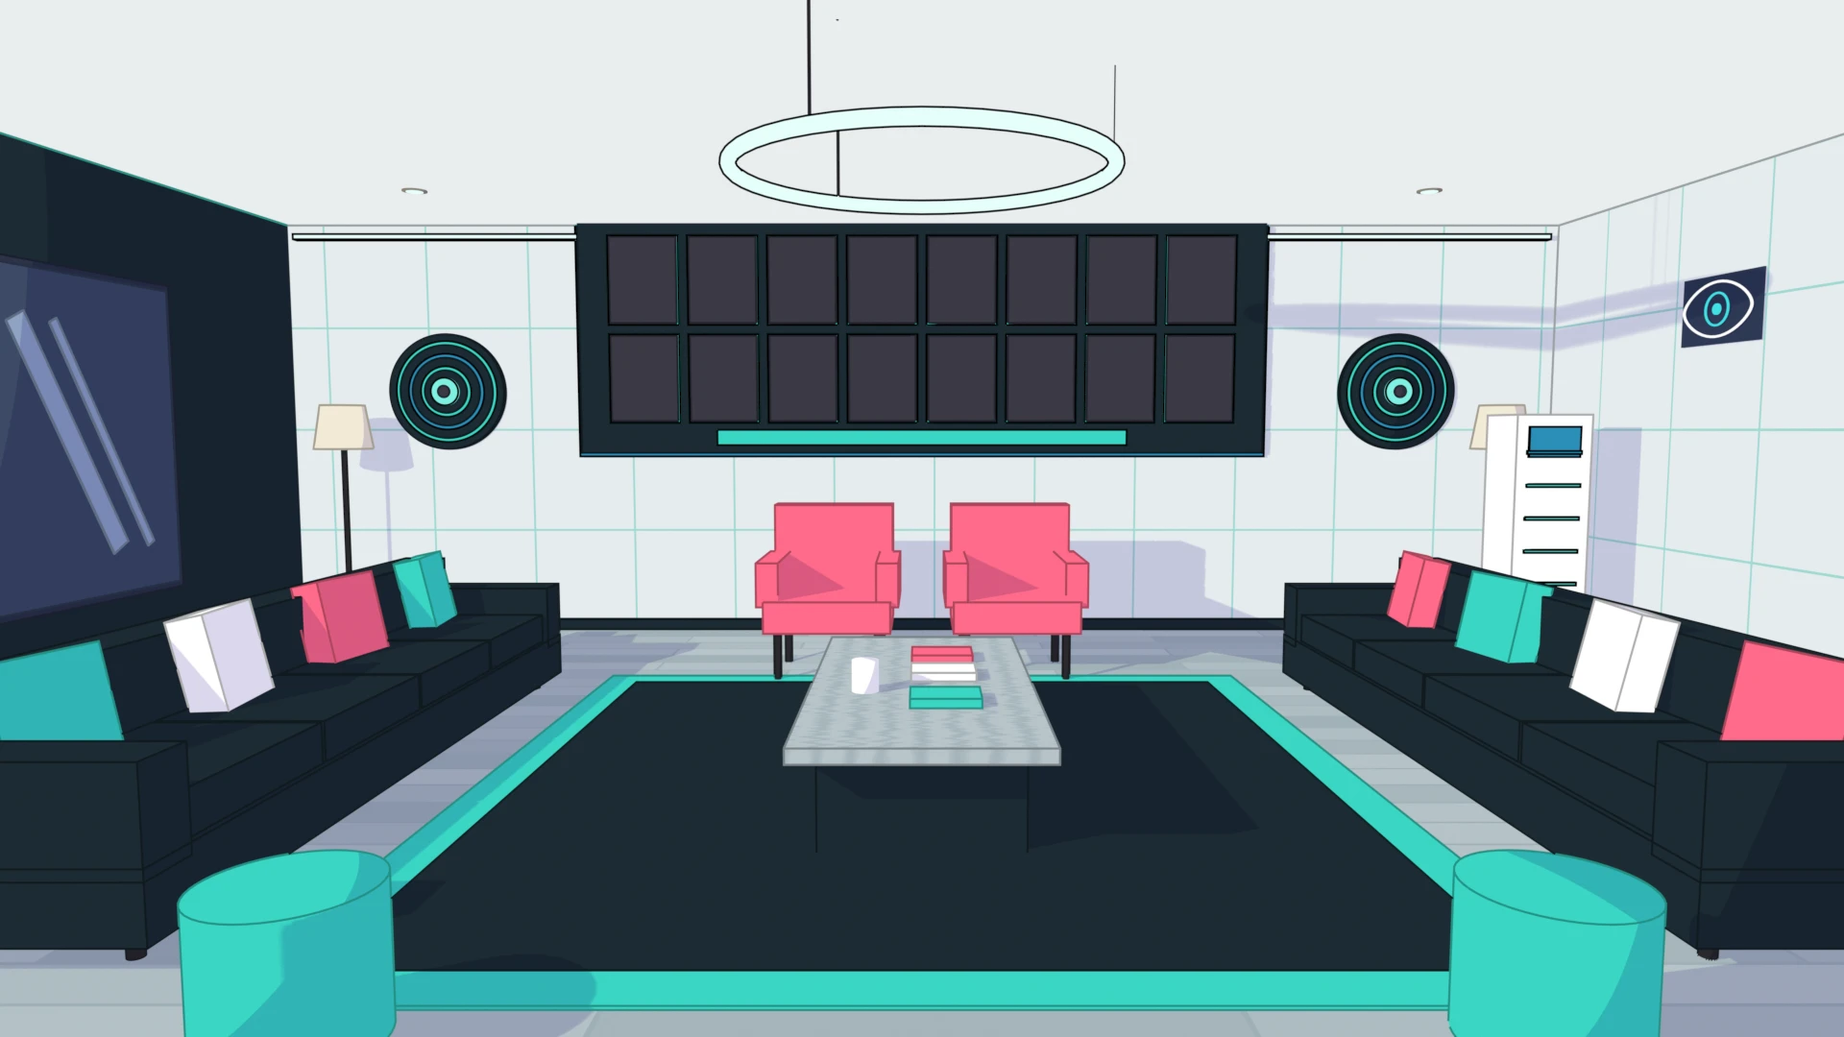
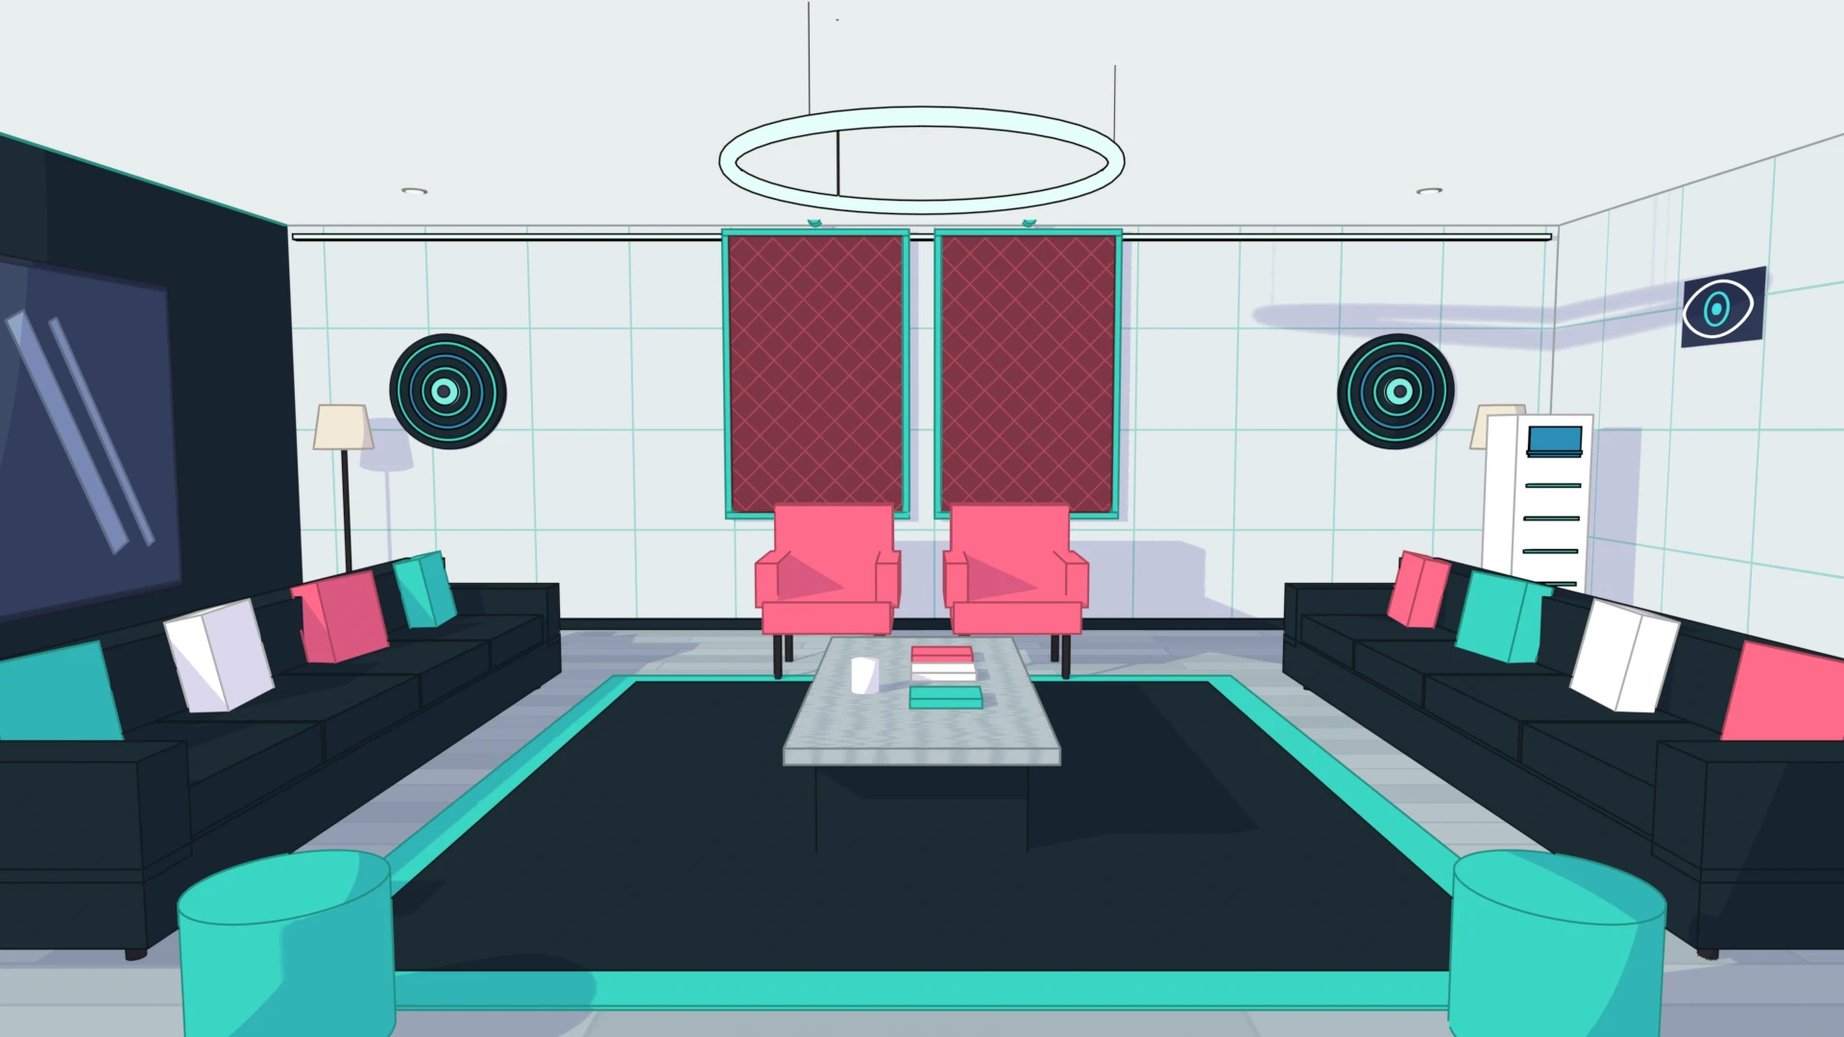
fix(bb-house): the memory wall as BB US hangs it; nomination slot keeps its frame
The memory wall is two gold-trimmed damask panels (rendered); the viewer
hangs a gold or black frame per houseguest, staggered in two columns per
panel, so the wall always holds the season's own cast (evicted go black and
white, nominees glow red). A face landing in a nomination slot keeps the
slot's frame, with the name plate under the photo.

Also restores bed/_darker/nightstand/fairy_wall, cut out of house.py by
the previous rebuild (all nine rooms build again).

Changed region(s): [[0.3125, 0.2139, 0.6875, 0.5194]]

diff --git a/mockup/mockup-bb-house-v2.html b/mockup/mockup-bb-house-v2.html
@@ -344,13 +344,13 @@ button{font:inherit;color:inherit}
 .set.photo{background-size:cover!important;background-position:center!important}
 .set.photo::before,.set.photo::after,.set.photo .floor{display:none}
 /* the house in the chosen look (TD B · Flat); every room of the default season */
-.set-kitchen.photo{background:url('../assets/bb/house/default/kitchen-td-b.webp?v=5')}
-.set-ceremony.photo{background:url('../assets/bb/house/default/living-td-b.webp?v=5')}
-.set-bedroom.photo{background:url('../assets/bb/house/default/bedroom-td-b.webp?v=5')}
-.set-hoh.photo{background:url('../assets/bb/house/default/hoh-td-b.webp?v=5')}
-.set-dr.photo{background:url('../assets/bb/house/default/dr-td-b.webp?v=5')}
-.set-yard.photo{background:url('../assets/bb/house/default/yard-td-b.webp?v=5')}
-.set-dining.photo{background:url('../assets/bb/house/default/dining-td-b.webp?v=5')}
+.set-kitchen.photo{background:url('../assets/bb/house/default/kitchen-td-b.webp?v=6')}
+.set-ceremony.photo{background:url('../assets/bb/house/default/living-td-b.webp?v=6')}
+.set-bedroom.photo{background:url('../assets/bb/house/default/bedroom-td-b.webp?v=6')}
+.set-hoh.photo{background:url('../assets/bb/house/default/hoh-td-b.webp?v=6')}
+.set-dr.photo{background:url('../assets/bb/house/default/dr-td-b.webp?v=6')}
+.set-yard.photo{background:url('../assets/bb/house/default/yard-td-b.webp?v=6')}
+.set-dining.photo{background:url('../assets/bb/house/default/dining-td-b.webp?v=6')}
 .front{position:absolute;inset:0;width:100%;height:100%;pointer-events:none}
 .nomscreen{position:absolute;z-index:1;display:flex;flex-direction:column;align-items:center;justify-content:center;gap:4%;
   background:radial-gradient(ellipse at 50% 20%,#ff5fb4,#d02c7a 55%,#7a1048);box-shadow:inset 0 0 0 .2cqw rgba(255,255,255,.25);overflow:hidden}
@@ -358,11 +358,12 @@ button{font:inherit;color:inherit}
 .nhead{position:relative;font:900 1.7cqw Archivo;font-stretch:75%;letter-spacing:.12cqw;color:#fff;padding:.25cqw 1.2cqw;
   background:linear-gradient(180deg,#9b2d8f,#5e1660);box-shadow:0 0 0 .18cqw #f1c6e6;text-shadow:0 .15cqw 0 #3a0a3a}
 .nslots{position:relative;display:flex;gap:6%;width:84%;justify-content:center}
-.nslot{position:relative;width:34%;aspect-ratio:1;background:linear-gradient(180deg,#2b3ea8,#16226a);box-shadow:0 0 0 .22cqw #cfd6e6,inset 0 0 1.2cqw rgba(0,0,0,.5);
+.nslot{position:relative;width:34%;aspect-ratio:1;background:linear-gradient(180deg,#2b3ea8,#16226a);border:.3cqw solid #d8deea;box-shadow:0 .3cqw .8cqw rgba(0,0,0,.35),inset 0 0 1.2cqw rgba(0,0,0,.5);box-sizing:border-box;
   display:grid;place-items:center;overflow:hidden}
 .nslot i{font:900 5cqw/1 Archivo;font-style:normal;color:#fff;text-shadow:0 .25cqw 0 rgba(0,0,0,.35)}
-.nslot img{position:absolute;inset:0;width:100%;height:100%;object-fit:cover;object-position:50% 14%}
-.nslot b{position:absolute;left:0;right:0;bottom:0;font:800 .9cqw Archivo;font-stretch:80%;letter-spacing:.08cqw;color:#fff;background:rgba(122,16,72,.85);text-transform:uppercase;padding:.15cqw 0}
+.nslot img{position:absolute;inset:0;width:100%;height:82%;object-fit:cover;object-position:50% 18%}
+.nslot.on{background:#fff}
+.nslot b{position:absolute;left:0;right:0;bottom:0;height:18%;display:grid;place-items:center;font:800 1cqw Archivo;font-stretch:80%;letter-spacing:.1cqw;color:#fff;background:linear-gradient(180deg,#9b2d8f,#5e1660);text-transform:uppercase}
 .nslot.flip{animation:nflip .7s cubic-bezier(.3,.7,.2,1) both}
 @keyframes nflip{0%{transform:rotateY(90deg);filter:brightness(3)}100%{transform:none}}
 .nkeys{position:absolute;transform:translateX(-50%);display:flex;justify-content:center;gap:12%}
@@ -382,15 +383,25 @@ button{font:inherit;color:inherit}
 @keyframes chipin{from{transform:translate(-50%,40%) scale(.3) rotate(-120deg);opacity:0}}
 .wall.onwall{inset:0;left:0;right:0;top:0;display:block;perspective:none;z-index:1}
 .wall.onwall .mw{position:absolute;transform:none;border-radius:.15cqw;width:auto}
+.mf{position:absolute;padding:.32cqw;background:linear-gradient(135deg,#fbe7a6,#c9952f 35%,#f6d77e 55%,#8a6010);box-shadow:0 .35cqw .7cqw rgba(0,0,0,.45);transition:filter .6s,box-shadow .5s}
+.mf.dark{background:linear-gradient(135deg,#4a4a52,#141418 45%,#3a3a42 70%,#0b0b0e)}
+.mf .mfin{position:relative;width:100%;height:100%;overflow:hidden;background:var(--c);box-shadow:inset 0 0 0 .14cqw rgba(0,0,0,.55)}
+.mf .mfin img{position:absolute;inset:0;width:100%;height:100%;object-fit:cover;object-position:50% 16%}
+.mf.out .mfin img{filter:grayscale(1) contrast(1.1)}
+.mf.out .mfin{background:#777}
+.mf.nom{box-shadow:0 0 0 .18cqw #ff3355,0 0 1.6cqw rgba(255,51,85,.85)}
+.mf.fresh{animation:mfpop .8s ease-out}
+@keyframes mfpop{40%{transform:scale(1.18);filter:brightness(1.6)}}
+.mft{position:absolute;left:50%;bottom:-.9cqw;transform:translateX(-50%);font:800 .55cqw Archivo;letter-spacing:.06cqw;background:#f5c542;color:#2a1d00;padding:.05cqw .35cqw;border-radius:.15cqw}
 .wall.onwall .mw .lb{font-size:.5cqw}
 .wall.onwall .mw.safe .key{width:1.1cqw}
 .set-dr.photo~.drring{display:none}
 
 /* the other looks, kitchen only, for comparison */
-body[data-house="a"] .set-kitchen.photo{background:url('../assets/bb/house/default/kitchen-td-a.webp?v=5')}
-body[data-house="c"] .set-kitchen.photo{background:url('../assets/bb/house/default/kitchen-td-c.webp?v=5')}
-body[data-house="toon"] .set-kitchen.photo{background:url('../assets/bb/house/default/kitchen-toon.webp?v=5')}
-body[data-house="real"] .set-kitchen.photo{background:url('../assets/bb/house/default/kitchen.webp?v=5')}
+body[data-house="a"] .set-kitchen.photo{background:url('../assets/bb/house/default/kitchen-td-a.webp?v=6')}
+body[data-house="c"] .set-kitchen.photo{background:url('../assets/bb/house/default/kitchen-td-c.webp?v=6')}
+body[data-house="toon"] .set-kitchen.photo{background:url('../assets/bb/house/default/kitchen-toon.webp?v=6')}
+body[data-house="real"] .set-kitchen.photo{background:url('../assets/bb/house/default/kitchen.webp?v=6')}
 
 /* background houseguests: in the room, not in the conversation. Further back,
    so smaller, softer and dimmer; they never get a lower third. They are the
@@ -755,7 +766,7 @@ function tileHtml(n, x, cls, L, lock, extra = '', more = '') {
 const PHOTO = new Set(['kitchen', 'ceremony', 'bedroom', 'hoh', 'dr', 'yard', 'dining']);
 // Projected by Blender: where each seat, key slot and memory-wall frame lands on screen
 // ([% from left, % from bottom, depth]). Regenerate with anchors() when a room changes.
-const ANCH = {"dining":{"seats":{"S0":{"at":[89.21,36.94,3.547],"w":11.65},"S1":{"at":[81.83,42.25,4.435],"w":9.32},"S2":{"at":[72.6,45.58,5.258],"w":7.86},"S3":{"at":[62.93,47.46,5.875],"w":7.04},"S4":{"at":[37.07,47.46,5.875],"w":7.04},"S5":{"at":[27.4,45.58,5.258],"w":7.86},"S6":{"at":[18.17,42.25,4.435],"w":9.32},"S7":{"at":[10.79,36.94,3.547],"w":11.65}},"head":{"at":[71.81,53.99,6.266],"w":7.45},"box":{"at":[65.63,50.31,5.333],"w":5.48},"screen":{"x":37.18,"y":56.39,"w":25.97,"h":27.4}},"ceremony":{"seats":{"N-1":{"at":[45.07,47.56,7.436],"w":5.1},"N1":{"at":[54.93,47.56,7.436],"w":5.1},"L0":{"at":[7.72,35.61,3.801],"w":9.97},"R0":{"at":[92.28,35.61,3.801],"w":9.97},"L1":{"at":[15.79,39.99,4.698],"w":8.06},"R1":{"at":[84.21,39.99,4.698],"w":8.06},"L2":{"at":[21.28,42.97,5.596],"w":6.77},"R2":{"at":[78.72,42.97,5.596],"w":6.77},"L3":{"at":[25.25,45.12,6.493],"w":5.84},"R3":{"at":[74.75,45.12,6.493],"w":5.84},"stand":{"at":[30.82,45.72,3.824],"w":9.91}},"wall":[{"r":0,"c":0,"x":33.1,"y":68.84,"w":3.54,"h":8.29},{"r":0,"c":1,"x":37.41,"y":68.84,"w":3.56,"h":8.29},{"r":0,"c":2,"x":41.72,"y":68.84,"w":3.59,"h":8.29},{"r":0,"c":3,"x":46.04,"y":68.84,"w":3.61,"h":8.29},{"r":0,"c":4,"x":50.35,"y":68.84,"w":3.64,"h":8.29},{"r":0,"c":5,"x":54.66,"y":68.84,"w":3.67,"h":8.29},{"r":0,"c":6,"x":58.97,"y":68.84,"w":3.69,"h":8.29},{"r":0,"c":7,"x":63.28,"y":68.84,"w":3.72,"h":8.29},{"r":1,"c":0,"x":33.21,"y":59.41,"w":3.51,"h":8.18},{"r":1,"c":1,"x":37.5,"y":59.41,"w":3.54,"h":8.18},{"r":1,"c":2,"x":41.78,"y":59.41,"w":3.56,"h":8.18},{"r":1,"c":3,"x":46.06,"y":59.41,"w":3.59,"h":8.18},{"r":1,"c":4,"x":50.35,"y":59.41,"w":3.62,"h":8.18},{"r":1,"c":5,"x":54.63,"y":59.41,"w":3.64,"h":8.18},{"r":1,"c":6,"x":58.91,"y":59.41,"w":3.67,"h":8.18},{"r":1,"c":7,"x":63.19,"y":59.41,"w":3.69,"h":8.18}]}};
+const ANCH = {"dining":{"seats":{"S0":{"at":[89.21,36.94,3.547],"w":11.65},"S1":{"at":[81.83,42.25,4.435],"w":9.32},"S2":{"at":[72.6,45.58,5.258],"w":7.86},"S3":{"at":[62.93,47.46,5.875],"w":7.04},"S4":{"at":[37.07,47.46,5.875],"w":7.04},"S5":{"at":[27.4,45.58,5.258],"w":7.86},"S6":{"at":[18.17,42.25,4.435],"w":9.32},"S7":{"at":[10.79,36.94,3.547],"w":11.65}},"head":{"at":[71.81,53.99,6.266],"w":7.45},"box":{"at":[65.63,50.31,5.333],"w":5.48},"screen":{"x":37.18,"y":56.39,"w":25.97,"h":27.4}},"ceremony":{"seats":{"N-1":{"at":[45.07,47.56,7.436],"w":5.1},"N1":{"at":[54.93,47.56,7.436],"w":5.1},"L0":{"at":[7.72,35.61,3.801],"w":9.97},"R0":{"at":[92.28,35.61,3.801],"w":9.97},"L1":{"at":[15.79,39.99,4.698],"w":8.06},"R1":{"at":[84.21,39.99,4.698],"w":8.06},"L2":{"at":[21.28,42.97,5.596],"w":6.77},"R2":{"at":[78.72,42.97,5.596],"w":6.77},"L3":{"at":[25.25,45.12,6.493],"w":5.84},"R3":{"at":[74.75,45.12,6.493],"w":5.84},"stand":{"at":[30.82,45.72,3.824],"w":9.91}},"panels":[{"x":39.75,"y":50.63,"w":9.2,"h":26.55},{"x":51.02,"y":50.63,"w":9.42,"h":26.55}]}};
 // The HOH is the point of the shot: drawn standing behind the box, bigger than a seat at that depth.
 const seatOf = (S, n) => {
   const a = ANCH[S.set]; const id = S.seated[n];
@@ -836,7 +847,7 @@ function setHtml(S, st, prevSt, L, fresh) {
   }
   if (S.set === 'dining') {
     const A = ANCH.dining;
-    h += `<img class="front" src="../assets/bb/house/${season}/dining-td-b-nombox.webp?v=5" alt="" style="z-index:${zOf(A.box)}">`;
+    h += `<img class="front" src="../assets/bb/house/${season}/dining-td-b-nombox.webp?v=6" alt="" style="z-index:${zOf(A.box)}">`;
     h += nomScreenHtml(A, L, st, fresh, NOM_SLOTS(S)) + keyBoxHtml(A, L, st, fresh, NOM_SLOTS(S));
   }
   if (S.medalOn && L.veto === S.medalOn) {
@@ -849,11 +860,33 @@ function setHtml(S, st, prevSt, L, fresh) {
   return h;
 }
 
+function memoryFrames(panels, n) {
+  // Real BB: two wallpapered panels, portraits in two staggered columns on each.
+  const out = [];
+  const per = [Math.ceil(n / 2), Math.floor(n / 2)];
+  panels.forEach((p, pi) => {
+    const k = per[pi], rows = Math.ceil(k / 2);
+    const pitch = (p.h * 0.92) / (rows + 0.5);
+    const fh = pitch * 0.97, fw = Math.min(p.w * 0.42, fh * 0.8 * 9 / 16 * 1.25);
+    for (let j = 0; j < k; j++) {
+      const col = j % 2, row = Math.floor(j / 2);
+      const top = p.y + p.h - p.h * 0.04 - row * pitch - (col ? pitch / 2 : 0);
+      out.push({ x: p.x + p.w * (col ? 0.73 : 0.27) - fw / 2, y: top - fh, w: fw, h: fh });
+    }
+  });
+  return out;
+}
 function wallHtml(L, st, fresh, onwall = false) {
-  const frames = onwall ? ANCH[SCREENS[cur].set].wall : null;
+  const A = onwall ? ANCH[SCREENS[cur].set] : null;
+  const frames = A && A.panels ? memoryFrames(A.panels, HOUSE.length) : (onwall ? A.wall : null);
   return `<div class="wall${onwall ? ' onwall' : ''}">${HOUSE.map((n, i) => {
     const fr = frames && frames[i];
     const place = fr ? `left:${fr.x}%;bottom:${fr.y}%;width:${fr.w}%;height:${fr.h}%;` : '';
+    if (A && A.panels) {
+      const s = L.status[n];
+      const isFresh2 = fresh && st && (st.out === n || (st.nom || []).includes(n));
+      return `<div class="mf ${s} ${i % 3 === 2 ? 'dark' : ''} ${isFresh2 ? 'fresh' : ''}" style="${place}--c:${col(n)}"><div class="mfin">${img(n)}</div>${s === 'hoh' ? '<span class="mft">HOH</span>' : ''}</div>`;
+    }
     const s = L.status[n];
     const d = i - (HOUSE.length - 1) / 2;
     const isFresh = fresh && st && (st.key === n || st.out === n || (st.nom || []).includes(n));
@@ -905,7 +938,7 @@ function paint(fresh = false) {
   const camNow = S.set === 'quad' ? 'none' : camOf(S, idx);
   const camPrev = fresh && idx > 0 ? camOf(S, idx - 1) : camNow;
   const cut = fresh && prevSt && st && ((st.k === 'dr') !== (prevSt.k === 'dr'));
-  const onwall = S.wall && !isDr && PHOTO.has(S.set) && ANCH[S.set] && ANCH[S.set].wall && (S.wall !== 'after' || (L.out.length && st && st.k !== 'host'));
+  const onwall = !isDr && PHOTO.has(S.set) && ANCH[S.set] && (ANCH[S.set].panels || ANCH[S.set].wall);
   let h = `<div class="cam" style="${camStyle(camPrev)}"><div class="lens ${cut ? 'cut' : ''}">${setHtml(S, st, prevSt, L, fresh).replace(/(<div class="set [^"]*"[^>]*><div class="floor"><\/div><\/div>)/, m => m + (onwall ? wallHtml(L, st, fresh, true) : ''))}</div></div>`;
   h += `<div class="grain"></div><div class="vign"></div>`;
   if (!onwall && S.wall && !isDr && (S.wall !== 'after' || (L.out.length && st && st.k !== 'host'))) h += wallHtml(L, st, fresh);
@@ -1059,7 +1092,7 @@ const ROOM_FILE = { kitchen: 'kitchen', ceremony: 'living', bedroom: 'bedroom', 
 let season = 'default';
 (() => {
   const css = SEASONS.slice(1).map(([id]) => Object.entries(ROOM_FILE).map(([set, f]) =>
-    `body[data-season="${id}"] .set-${set}.photo{background-image:url('../assets/bb/house/${id}/${f}-td-b.webp?v=5')}`).join('\n')).join('\n');
+    `body[data-season="${id}"] .set-${set}.photo{background-image:url('../assets/bb/house/${id}/${f}-td-b.webp?v=6')}`).join('\n')).join('\n');
   const el = document.createElement('style'); el.textContent = css; document.head.appendChild(el);
 })();
 let seasonI = 0;

diff --git a/tools/bb-house/house.py b/tools/bb-house/house.py
@@ -662,22 +662,40 @@ def floor_lamp(name, loc, T, shade='#f3ead6'):
     sphere(f'Bulb{name}', 0.05, (x, y, 1.55), mat('bulb', '#ffffff', emit=T['light'], strength=30))
     point(f'{name}L', (x, y, 1.55), 40, T['light'], 0.08)
 
-def memory_wall(T, cx, y, z0, cols=8, rows=2, fw=0.52, fh=0.66, gap=0.1):
-    """The memory wall: a lit panel with a frame for every houseguest."""
-    W = cols * fw + (cols - 1) * gap + 0.5
-    Hh = rows * fh + (rows - 1) * gap + 0.5
-    box('MemPanel', (W, 0.08, Hh), (cx, y, z0 + Hh / 2), mat('mempanel', T['deep'], 0.4), bevel=0.01)
-    box('MemEdge', (W + 0.06, 0.04, Hh + 0.06), (cx, y + 0.03, z0 + Hh / 2), mat('memedge', '#ffffff', emit=T['accent2'], strength=8), bevel=0)
-    scr = mat('memscreen', '#1b2232', 0.15, coat=0.8)
-    rim = mat('memrim', '#ffffff', emit=T['accent'], strength=5)
-    for r in range(rows):
-        for c in range(cols):
-            x = cx - W / 2 + 0.25 + fw / 2 + c * (fw + gap)
-            z = z0 + Hh - 0.25 - fh / 2 - r * (fh + gap)
-            box(f'MemRim{r}{c}', (fw + 0.03, 0.02, fh + 0.03), (x, y - 0.045, z), rim, bevel=0)
-            box(f'MemScreen{r}{c}', (fw, 0.02, fh), (x, y - 0.06, z), scr, bevel=0)
-    # the title strip under the wall
-    box('MemStrip', (W * 0.6, 0.02, 0.12), (cx, y - 0.05, z0 + 0.12), mat('memstrip', '#ffffff', emit=T['accent'], strength=6), bevel=0)
+def mat_damask(name, a, b, scale=6.0):
+    """Damask-style wallpaper: a diamond trellis in two tones, the memory wall's backing."""
+    m = bpy.data.materials.new(name); m['tdcolor'] = a
+    nt, p = _bsdf(m)
+    v = _wallvec(nt)
+    mp = nt.nodes.new('ShaderNodeMapping')
+    mp.inputs['Rotation'].default_value = (0, 0, math.radians(45))
+    br = nt.nodes.new('ShaderNodeTexBrick')
+    br.inputs['Scale'].default_value = scale
+    br.inputs['Brick Width'].default_value = 1.0; br.inputs['Row Height'].default_value = 1.0
+    br.inputs['Mortar Size'].default_value = 0.035; br.offset = 0.0
+    br.inputs['Color1'].default_value = hexc(a); br.inputs['Color2'].default_value = hexc(a)
+    br.inputs['Mortar'].default_value = hexc(b)
+    nt.links.new(v, mp.inputs['Vector']); nt.links.new(mp.outputs['Vector'], br.inputs['Vector'])
+    nt.links.new(br.outputs['Color'], p.inputs['Base Color'])
+    p.inputs['Roughness'].default_value = 0.85
+    return m
+
+MEM_PANEL_W, MEM_PANEL_H, MEM_GAP = 1.35, 2.15, 0.3
+
+def memory_wall(T, cx, y, z0):
+    """The memory wall (BB US): two tall wallpapered panels, each trimmed in gold; the viewer hangs a
+    framed portrait for every houseguest, staggered in two columns per panel, so the wall always holds
+    exactly the season's cast. Painted here: the panels, the trim, and the plaque under them."""
+    paper = mat_damask('memdamask', _darker(T['pop'], 0.5), _darker(T['pop'], 0.68))
+    gold = mat('memgold', T['accent'], 0.3, 1.0)
+    for i, sx in enumerate((-1, 1)):
+        x = cx + sx * (MEM_PANEL_W + MEM_GAP) / 2
+        box(f'MemPanel{i}', (MEM_PANEL_W, 0.04, MEM_PANEL_H), (x, y - 0.02, z0 + MEM_PANEL_H / 2), paper, bevel=0)
+        for (w_, h_, dx, dz) in ((MEM_PANEL_W + 0.1, 0.05, 0, MEM_PANEL_H / 2 + 0.025), (MEM_PANEL_W + 0.1, 0.05, 0, -MEM_PANEL_H / 2 - 0.025),
+                                 (0.05, MEM_PANEL_H, -MEM_PANEL_W / 2 - 0.025, 0), (0.05, MEM_PANEL_H, MEM_PANEL_W / 2 + 0.025, 0)):
+            box(f'MemTrim{i}{dx}{dz}', (w_, 0.06, h_), (x + dx, y - 0.03, z0 + MEM_PANEL_H / 2 + dz), gold, bevel=0)
+        cyl(f'MemLamp{i}', 0.05, 0.12, (x, y - 0.12, z0 + MEM_PANEL_H + 0.12), gold, rot=(90, 0, 0))
+        area(f'MemWash{i}', (MEM_PANEL_W, 0.2), (x, y - 0.5, z0 + MEM_PANEL_H + 0.25), 70, T['light'], rot=(40, 0, 0))
 
 def ring_light(name, loc, r, T):
     """A ring chandelier: a lit torus on three cables."""
@@ -697,7 +715,7 @@ def room_living(T):
     shell(T, W, D, H, floor_mat=mat_planks('planks', T['wood_a'], T['wood_b'], seam=T['wood_b'], scale=0.9, rough=T['floor_rough']))
     box('Graphic', (0.02, D + 2, H), (-W / 2 + 0.01, D / 2 - 0.5, H / 2), mat_graphic('graphic', T['graphic'], scale=0.3, angle=-35), bevel=0)
     two_way_mirrors(T, -W / 2 + 0.03, (2.0, 5.2), z0=0.6, h=1.9, w=1.5)
-    memory_wall(T, 0, D - 0.06, 1.42)
+    memory_wall(T, 0, D - 0.06, 0.95)
     # the nominees' chairs, side by side at the back, facing the room
     for sx in (-1, 1):
         armchair(f'NomChair{sx}', (sx * 0.6, LIVING_NOM_Y, 0), 0, T['pop'])
@@ -734,6 +752,49 @@ def room_living(T):
 
 LIVING_NOM_Y = 5.9
 LIVING_SOFA_X, LIVING_SOFA_Y, LIVING_SOFA_L = 2.75, 3.6, 3.8
+
+def bed(name, loc, T, width=1.1, length=2.0, headboard='#3f7cc1', duvet='#efe4c9', throw=None, pillows=('#ffffff', '#ffffff'), hb_h=1.4, tufts=True):
+    """A bed with its head against the back wall: frame, mattress, duvet, pillows, a throw, an upholstered headboard."""
+    x, y, z = loc
+    frame = mat('bedframe', T['deep'], 0.5)
+    box(f'{name}Frame', (width + 0.1, length + 0.05, 0.3), (x, y - length / 2, 0.15), frame)
+    box(f'{name}Mattress', (width, length, 0.22), (x, y - length / 2, 0.41), mat('mattress', '#f4f1ea', 0.8), bevel=0.04)
+    box(f'{name}Duvet', (width + 0.06, length * 0.72, 0.1), (x, y - length * 0.62, 0.55), mat(f'duvet{duvet}', duvet, 0.85), bevel=0.04)
+    if throw:
+        box(f'{name}Throw', (width + 0.1, 0.45, 0.06), (x, y - length + 0.35, 0.6), mat(f'throw{throw}', throw, 0.9), bevel=0.02)
+    for i, c in enumerate(pillows):
+        dx = (i - (len(pillows) - 1) / 2) * (width / max(1, len(pillows)))
+        ob = box(f'{name}Pillow{i}', (width / len(pillows) - 0.06, 0.34, 0.16), (x + dx, y - 0.25, 0.6), mat(f'pillow{c}', c, 0.8), bevel=0.05)
+        ob.rotation_euler = (math.radians(-18), 0, 0)
+    hb = mat(f'headboard{headboard}', headboard, 0.7)
+    box(f'{name}Head', (width + 0.3, 0.12, hb_h), (x, y + 0.02, hb_h / 2), hb, bevel=0.05)
+    if tufts:
+        n = 4
+        for i in range(n):
+            box(f'{name}Tuft{i}', (0.02, 0.01, hb_h - 0.25), (x - (width + 0.3) / 2 + (i + 1) * (width + 0.3) / (n + 1), y - 0.045, hb_h / 2), mat(f'tuft{headboard}', _darker(headboard), 0.7), bevel=0)
+
+def _darker(hexcol, k=0.78):
+    h = hexcol.lstrip('#')
+    r, g, b = (int(h[i:i + 2], 16) for i in (0, 2, 4))
+    return '#%02x%02x%02x' % (int(r * k), int(g * k), int(b * k))
+
+def nightstand(name, loc, T, lamp=True):
+    x, y, z = loc
+    box(f'{name}Body', (0.5, 0.42, 0.55), (x, y, 0.275), mat_wood('standwood', T['wood_a'], T['wood_b']))
+    box(f'{name}Drawer', (0.42, 0.01, 0.16), (x, y - 0.215, 0.4), mat('drawerface', _darker(T['wood_a'], 0.9), 0.5), bevel=0)
+    if lamp:
+        cyl(f'{name}LampBase', 0.08, 0.26, (x, y, 0.68), mat('lampbase', T['accent'], 0.3, coat=0.6), r2=0.05)
+        cyl(f'{name}LampShade', 0.16, 0.2, (x, y, 0.9), mat('lampshade', '#f6ead0', 0.6), r2=0.12)
+        sphere(f'Bulb{name}', 0.04, (x, y, 0.86), mat('bulb', '#ffffff', emit=T['light'], strength=30))
+        point(f'{name}L', (x, y, 0.88), 25, T['light'], 0.06)
+
+def fairy_wall(T, x0, x1, z0, z1, y, n=60, seed=3):
+    """A wall of small warm lights."""
+    import random
+    rnd = random.Random(seed)
+    m = mat('fairy', '#ffffff', emit=T['light'], strength=20)
+    for i in range(n):
+        sphere(f'Fairy{i}', 0.025, (rnd.uniform(x0, x1), y, rnd.uniform(z0, z1)), m)
 
 def neon_text(name, text, loc, size, color, rot=(90, 0, 0), strength=10, extrude=0.02):
     cu = bpy.data.curves.new(name, 'FONT')
@@ -1119,6 +1180,17 @@ def anchors(room, theme='default', w=1920, h=1080):
                            'w': round(abs(b.x - a.x) * 100, 2), 'h': round(abs(b.y - a.y) * 100, 2)})
     if frames:
         out['wall'] = sorted(frames, key=lambda f: (f['r'], f['c']))
+    panels = []
+    for name in ('MemPanel0', 'MemPanel1'):
+        ob = sc.objects.get(name)
+        if ob:
+            xs = [v.co.x for v in ob.data.vertices]; zs = [v.co.z for v in ob.data.vertices]
+            a_ = world_to_camera_view(sc, cam, ob.matrix_world @ Vector((min(xs), 0, min(zs))))
+            b_ = world_to_camera_view(sc, cam, ob.matrix_world @ Vector((max(xs), 0, max(zs))))
+            panels.append({'x': round(min(a_.x, b_.x) * 100, 2), 'y': round(min(a_.y, b_.y) * 100, 2),
+                           'w': round(abs(b_.x - a_.x) * 100, 2), 'h': round(abs(b_.y - a_.y) * 100, 2)})
+    if panels:
+        out['panels'] = panels
     def rect_of(name):
         ob = sc.objects.get(name)
         if not ob: return None
